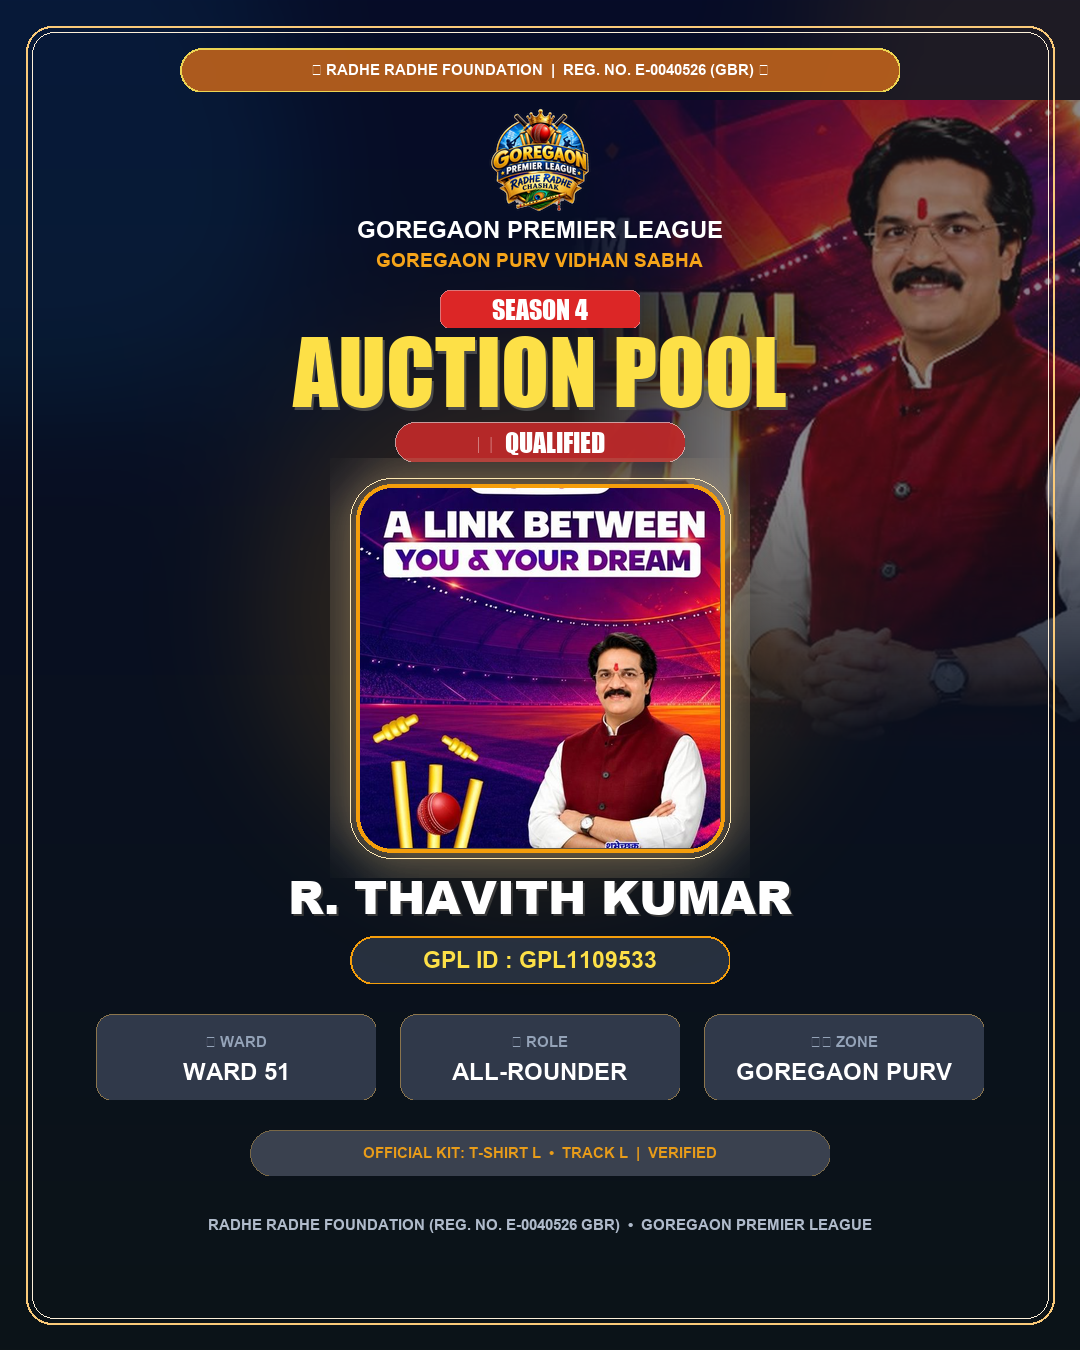
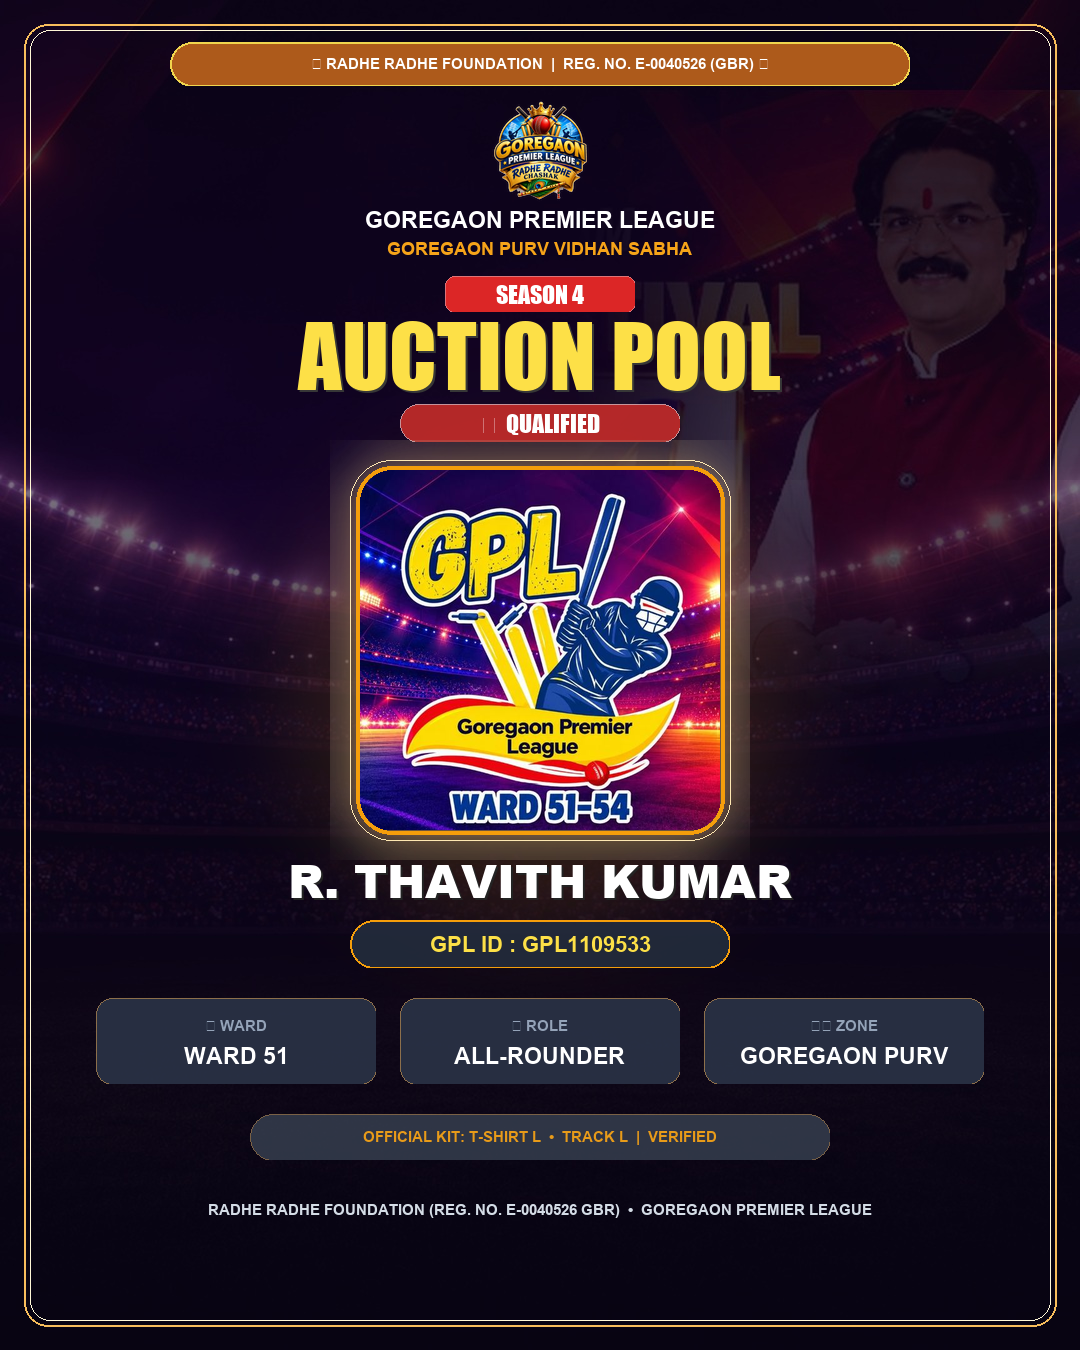
feat: use uploaded stadium background, prioritize env credentials for console login

diff --git a/src/lib/auth.js b/src/lib/auth.js
@@ -10,35 +10,47 @@ export const COOKIE_NAME = "gpl_admin_jwt";
 export async function authenticateAdmin(username, password) {
   if (!username || !password) return false;
 
-  let configuredUser = (process.env.ADMIN_USERNAME || "admin").trim().toLowerCase();
-  let configuredPass = process.env.ADMIN_PASSWORD || "GPL@AdminNew2026";
+  // 1. First priority: Environment variables (.env / .env.local / Vercel env)
+  const envUser = (process.env.ADMIN_USERNAME || process.env.CONSOLE_USERNAME || "").trim();
+  const envPass = (process.env.ADMIN_PASSWORD || process.env.CONSOLE_PASSWORD || "").trim();
 
-  // Check MongoDB for updated credentials if available
-  try {
-    const { connectToDatabase, MongoSetting } = await import("@/lib/mongodb");
-    await connectToDatabase();
-    const doc = await MongoSetting.findOne({ key: "global_settings" }).lean();
-    if (doc?.value?.adminUsername) {
-      configuredUser = String(doc.value.adminUsername).trim().toLowerCase();
+  let configuredUser = envUser.toLowerCase();
+  let configuredPass = envPass;
+
+  // 2. Fallback to MongoDB only if env variables are not set
+  if (!configuredUser || !configuredPass) {
+    try {
+      const { connectToDatabase, MongoSetting } = await import("@/lib/mongodb");
+      await connectToDatabase();
+      const doc = await MongoSetting.findOne({ key: "global_settings" }).lean();
+      if (!configuredUser && doc?.value?.adminUsername) {
+        configuredUser = String(doc.value.adminUsername).trim().toLowerCase();
+      }
+      if (!configuredPass && doc?.value?.adminPassword) {
+        configuredPass = String(doc.value.adminPassword).trim();
+      }
+    } catch (e) {
+      // fallback to defaults if DB is temporarily unreachable
     }
-    if (doc?.value?.adminPassword) {
-      configuredPass = String(doc.value.adminPassword);
-    }
-  } catch (e) {
-    // fallback to env vars / defaults if DB is temporarily unreachable
   }
+
+  // 3. Fallbacks
+  if (!configuredUser) configuredUser = "admin";
+  if (!configuredPass) configuredPass = "GPL@AdminNew2026";
 
   const userValid = username.trim().toLowerCase() === configuredUser;
   if (!userValid) return false;
 
-  // Check password
+  const inputPass = String(password).trim();
+  const targetPass = String(configuredPass).trim();
+
+  if (inputPass === targetPass) return true;
+
   try {
-    const a = Buffer.from(password);
-    const b = Buffer.from(configuredPass);
+    const a = Buffer.from(inputPass);
+    const b = Buffer.from(targetPass);
     if (a.length === b.length && crypto.timingSafeEqual(a, b)) return true;
-  } catch {
-    if (password === configuredPass) return true;
-  }
+  } catch {}
 
   return false;
 }

diff --git a/src/components/PlayerRegistrationCard.js b/src/components/PlayerRegistrationCard.js
@@ -81,20 +81,14 @@ export default function PlayerRegistrationCard({ player, regNum, photo, onClose 
       ctx.fillRect(W - 400, 0, 400, 400);
       ctx.restore();
 
-      // 3. BACKGROUND: Sandeep Jadhav portrait blended into upper-right
+      // 3. BACKGROUND: Stadium with Sandeep Jadhav
       try {
-        const bgSandeep = await loadImg("/images/card-bg-sandeep.png");
-        ctx.drawImage(bgSandeep, 0, 0, W, H);
+        const bgStadium = await loadImg("/images/card-stadium-bg-overlay.jpg");
+        ctx.drawImage(bgStadium, 0, 0, W, H);
       } catch (_) {
-        // Fallback: load directly from sandeep-jadhav.png with opacity
         try {
-          const sjImg = await loadImg("/images/sandeep-jadhav.png");
-          ctx.save();
-          ctx.globalAlpha = 0.45;
-          const sjW = 540;
-          const sjH = (sjW * sjImg.height) / sjImg.width;
-          ctx.drawImage(sjImg, W - sjW + 30, 100, sjW, sjH);
-          ctx.restore();
+          const bgSandeep = await loadImg("/images/card-bg-sandeep.png");
+          ctx.drawImage(bgSandeep, 0, 0, W, H);
         } catch (e) {}
       }
 

diff --git a/scripts/generate-template-card.py b/scripts/generate-template-card.py
@@ -5,122 +5,91 @@ from PIL import Image, ImageDraw, ImageFont, ImageFilter
 
 def generate_gpl_card(output_path, sample_photo_path=None):
     W, H = 1080, 1350
-    
-    # 1. Base Gradient Background (Midnight Sports Blue)
-    arr = np.zeros((H, W, 4), dtype=np.uint8)
-    t = np.linspace(0, 1, H)[:, None]
-    arr[:, :, 0] = (6 + t * 6).astype(np.uint8)
-    arr[:, :, 1] = (12 + t * 8).astype(np.uint8)
-    arr[:, :, 2] = (24 + (1 - t) * 16).astype(np.uint8)
-    arr[:, :, 3] = 255
-    img = Image.fromarray(arr)
 
-    # 2. Atmospheric ambient glows
+    # 1. Load the pre-baked stadium background (featuring the user's uploaded stadium & Sandeep Jadhav)
+    bg_path = "/Users/alok/Desktop/goregaon-premier-league/public/images/card-stadium-bg-overlay.jpg"
+    if os.path.exists(bg_path):
+        img = Image.open(bg_path).convert("RGBA")
+    else:
+        img = Image.new("RGBA", (W, H), (12, 6, 24, 255))
+
+    # Ambient golden light on center
     glow = Image.new("RGBA", (W, H), (0, 0, 0, 0))
     gdraw = ImageDraw.Draw(glow)
-    gdraw.ellipse([W - 350, -100, W + 300, 500], fill=(245, 158, 11, 26))
-    gdraw.ellipse([-200, -100, 350, 450], fill=(14, 165, 233, 22))
-    gdraw.ellipse([W//2 - 320, 300, W//2 + 320, 920], fill=(245, 158, 11, 35))
-    glow = glow.filter(ImageFilter.GaussianBlur(70))
+    gdraw.ellipse([W//2 - 280, 420, W//2 + 280, 960], fill=(245, 158, 11, 40))
+    glow = glow.filter(ImageFilter.GaussianBlur(60))
     img = Image.alpha_composite(img, glow)
-
-    # 3. BACKGROUND: Shri Sandeep Jadhav portrait blended into upper-right
-    sj_path = "/Users/alok/Desktop/goregaon-premier-league/public/images/sandeep-jadhav.png"
-    if os.path.exists(sj_path):
-        sj = Image.open(sj_path).convert("RGBA")
-        aspect = sj.height / sj.width
-        new_w = 540
-        new_h = int(new_w * aspect)
-        sj_scaled = sj.resize((new_w, new_h), Image.Resampling.LANCZOS)
-
-        # Smooth alpha mask
-        mask_arr = np.ones((new_h, new_w), dtype=np.float32)
-        # Fade bottom
-        fade_y = np.linspace(1, 0, int(new_h * 0.42), dtype=np.float32)
-        mask_arr[-len(fade_y):, :] *= fade_y[:, None]
-        # Fade left
-        fade_x = np.linspace(0, 1, int(new_w * 0.38), dtype=np.float32)
-        mask_arr[:, :len(fade_x)] *= fade_x[None, :]
-        # Opacity 48% for clear, prestigious visibility
-        mask_arr = (mask_arr * 0.48 * 255).astype(np.uint8)
-        mask_img = Image.fromarray(mask_arr)
-
-        paste_x = W - new_w + 30
-        paste_y = 100
-        img.paste(sj_scaled, (paste_x, paste_y), mask_img)
 
     draw = ImageDraw.Draw(img)
 
-    # 4. Crisp Outer Card Border
-    m = 26
-    draw.rounded_rectangle([m, m, W - m, H - m], radius=26, outline=(245, 158, 11, 140), width=2)
-    draw.rounded_rectangle([m + 6, m + 6, W - m - 6, H - m - 6], radius=22, outline=(245, 158, 11, 40), width=1)
+    # 2. Outer Card Border
+    m = 24
+    draw.rounded_rectangle([m, m, W - m, H - m], radius=24, outline=(245, 158, 11, 170), width=2)
+    draw.rounded_rectangle([m + 6, m + 6, W - m - 6, H - m - 6], radius=20, outline=(253, 224, 71, 55), width=1)
 
     # Fonts
     font_dir = "/System/Library/Fonts/Supplemental"
-    font_impact_lg = ImageFont.truetype(f"{font_dir}/Impact.ttf", 88)
+    font_impact_lg = ImageFont.truetype(f"{font_dir}/Impact.ttf", 86)
     font_impact_md = ImageFont.truetype(f"{font_dir}/Impact.ttf", 32)
-    font_impact_sm = ImageFont.truetype(f"{font_dir}/Impact.ttf", 26)
+    font_impact_sm = ImageFont.truetype(f"{font_dir}/Impact.ttf", 24)
     font_name = ImageFont.truetype(f"{font_dir}/Arial Black.ttf", 46)
-    font_bold_lg = ImageFont.truetype(f"{font_dir}/Arial Bold.ttf", 24)
-    font_bold_md = ImageFont.truetype(f"{font_dir}/Arial Bold.ttf", 19)
+    font_bold_lg = ImageFont.truetype(f"{font_dir}/Arial Bold.ttf", 23)
+    font_bold_md = ImageFont.truetype(f"{font_dir}/Arial Bold.ttf", 18)
     font_bold_sm = ImageFont.truetype(f"{font_dir}/Arial Bold.ttf", 15)
-    font_mono = ImageFont.truetype(f"{font_dir}/Arial Bold.ttf", 23)
+    font_mono = ImageFont.truetype(f"{font_dir}/Arial Bold.ttf", 22)
 
-    # 5. MOST PROMINENT: RADHE RADHE FOUNDATION (REG. NO. E-0040526 GBR) PRESENTS
-    rr_w, rr_h = 720, 44
+    # 3. TOP: RADHE RADHE FOUNDATION (REG. NO. E-0040526 GBR)
+    rr_w, rr_h = 740, 44
     rr_box = Image.new("RGBA", (rr_w, rr_h), (0, 0, 0, 0))
     r_draw = ImageDraw.Draw(rr_box)
-    r_draw.rounded_rectangle([0, 0, rr_w, rr_h], radius=22, fill=(180, 83, 9, 235), outline=(253, 224, 71, 235), width=2)
+    r_draw.rounded_rectangle([0, 0, rr_w, rr_h], radius=22, fill=(180, 83, 9, 235), outline=(253, 224, 71, 240), width=2)
     r_draw.text((rr_w // 2, rr_h // 2), "★ RADHE RADHE FOUNDATION  |  REG. NO. E-0040526 (GBR) ★", fill=(255, 255, 255, 255), font=font_bold_sm, anchor="mm")
-    img.paste(rr_box, (W // 2 - rr_w // 2, 48), rr_box)
+    img.paste(rr_box, (W // 2 - rr_w // 2, 42), rr_box)
 
-    # 6. Logo & Top Header (with "GOREGAON PURV VIDHAN SABHA")
+    # 4. Logo + GOREGAON PREMIER LEAGUE + GOREGAON PURV VIDHAN SABHA
     logo_path = "/Users/alok/Desktop/goregaon-premier-league/public/images/gpl-logo.png"
     if os.path.exists(logo_path):
         try:
             logo = Image.open(logo_path).convert("RGBA")
-            logo.thumbnail((110, 110), Image.Resampling.LANCZOS)
-            img.paste(logo, (W // 2 - logo.width // 2, 105), logo)
+            logo.thumbnail((105, 105), Image.Resampling.LANCZOS)
+            img.paste(logo, (W // 2 - logo.width // 2, 98), logo)
         except Exception as e:
             print("Logo load error:", e)
 
-    # Title: GOREGAON PREMIER LEAGUE
-    draw.text((W // 2, 230), "GOREGAON PREMIER LEAGUE", fill=(255, 255, 255, 255), font=font_bold_lg, anchor="mm")
-    # Subtitle: GOREGAON PURV VIDHAN SABHA (replaced ward 51 & 54)
-    draw.text((W // 2, 260), "GOREGAON PURV VIDHAN SABHA", fill=(245, 158, 11, 240), font=font_bold_md, anchor="mm")
+    draw.text((W // 2, 220), "GOREGAON PREMIER LEAGUE", fill=(255, 255, 255, 255), font=font_bold_lg, anchor="mm")
+    draw.text((W // 2, 248), "GOREGAON PURV VIDHAN SABHA", fill=(245, 158, 11, 240), font=font_bold_md, anchor="mm")
 
-    # 7. Red "SEASON 4" Stamp + "AUCTION POOL" + "✔ QUALIFIED"
-    s4_w, s4_h = 200, 38
+    # 5. Red "SEASON 4" Stamp
+    s4_w, s4_h = 190, 36
     s4_box = Image.new("RGBA", (s4_w, s4_h), (0, 0, 0, 0))
     s4_draw = ImageDraw.Draw(s4_box)
     s4_draw.rounded_rectangle([0, 0, s4_w, s4_h], radius=10, fill=(220, 38, 38, 255), outline=(248, 113, 113, 220), width=1)
     s4_draw.text((s4_w // 2, s4_h // 2), "SEASON 4", fill=(255, 255, 255, 255), font=font_impact_sm, anchor="mm")
-    img.paste(s4_box, (W // 2 - s4_w // 2, 290), s4_box)
+    img.paste(s4_box, (W // 2 - s4_w // 2, 276), s4_box)
 
-    # AUCTION POOL Title
-    ap_y = 372
-    draw.text((W // 2 + 2, ap_y + 3), "AUCTION POOL", fill=(0, 0, 0, 180), font=font_impact_lg, anchor="mm")
+    # 6. AUCTION POOL Title
+    ap_y = 356
+    draw.text((W // 2 + 2, ap_y + 2), "AUCTION POOL", fill=(0, 0, 0, 200), font=font_impact_lg, anchor="mm")
     draw.text((W // 2, ap_y), "AUCTION POOL", fill=(253, 224, 71, 255), font=font_impact_lg, anchor="mm")
 
-    # ✔ QUALIFIED Ribbon
-    q_w, q_h = 290, 40
+    # 7. Red "✔ QUALIFIED" Ribbon
+    q_w, q_h = 280, 38
     q_box = Image.new("RGBA", (q_w, q_h), (0, 0, 0, 0))
     q_draw = ImageDraw.Draw(q_box)
-    q_draw.rounded_rectangle([0, 0, q_w, q_h], radius=20, fill=(185, 28, 28, 240), outline=(252, 165, 165, 180), width=1)
+    q_draw.rounded_rectangle([0, 0, q_w, q_h], radius=19, fill=(185, 28, 28, 240), outline=(252, 165, 165, 180), width=1)
     q_draw.text((q_w // 2, q_h // 2), "✔  QUALIFIED", fill=(255, 255, 255, 255), font=font_impact_sm, anchor="mm")
-    img.paste(q_box, (W // 2 - q_w // 2, 422), q_box)
+    img.paste(q_box, (W // 2 - q_w // 2, 404), q_box)
 
     # 8. Hero Player Portrait
     p_size = 360
     p_x = W // 2 - p_size // 2
-    p_y = 488
+    p_y = 470
     p_rad = 32
 
     # Glow behind photo
     glow_p = Image.new("RGBA", (p_size + 60, p_size + 60), (0, 0, 0, 0))
     gp_draw = ImageDraw.Draw(glow_p)
-    gp_draw.rounded_rectangle([15, 15, p_size + 45, p_size + 45], radius=44, fill=(245, 158, 11, 75))
+    gp_draw.rounded_rectangle([15, 15, p_size + 45, p_size + 45], radius=44, fill=(245, 158, 11, 80))
     glow_p = glow_p.filter(ImageFilter.GaussianBlur(22))
     img.paste(glow_p, (p_x - 30, p_y - 30), glow_p)
 
@@ -151,18 +120,18 @@ def generate_gpl_card(output_path, sample_photo_path=None):
     draw.rounded_rectangle([p_x - 4, p_y - 4, p_x + p_size + 4, p_y + p_size + 4], radius=p_rad + 4, outline=(245, 158, 11, 255), width=4)
     draw.rounded_rectangle([p_x - 10, p_y - 10, p_x + p_size + 10, p_y + p_size + 10], radius=p_rad + 10, outline=(251, 191, 36, 90), width=1)
 
-    # 9. Player Name
+    # 9. Player Full Name
     name_str = "R. THAVITH KUMAR"
-    draw.text((W // 2 + 2, 898), name_str, fill=(0, 0, 0, 200), font=font_name, anchor="mm")
-    draw.text((W // 2, 896), name_str, fill=(255, 255, 255, 255), font=font_name, anchor="mm")
+    draw.text((W // 2 + 2, 882), name_str, fill=(0, 0, 0, 220), font=font_name, anchor="mm")
+    draw.text((W // 2, 880), name_str, fill=(255, 255, 255, 255), font=font_name, anchor="mm")
 
-    # 10. Clean ID Pill: GPL ID : GPL1109533
+    # 10. Clean ID Chip: GPL ID : GPL1109533
     id_w, id_h = 380, 48
     id_box = Image.new("RGBA", (id_w, id_h), (0, 0, 0, 0))
     id_draw = ImageDraw.Draw(id_box)
-    id_draw.rounded_rectangle([0, 0, id_w, id_h], radius=24, fill=(10, 20, 38, 220), outline=(245, 158, 11, 255), width=2)
+    id_draw.rounded_rectangle([0, 0, id_w, id_h], radius=24, fill=(10, 20, 38, 230), outline=(245, 158, 11, 255), width=2)
     id_draw.text((id_w // 2, id_h // 2), "GPL ID : GPL1109533", fill=(253, 224, 71, 255), font=font_mono, anchor="mm")
-    img.paste(id_box, (W // 2 - id_w // 2, 936), id_box)
+    img.paste(id_box, (W // 2 - id_w // 2, 920), id_box)
 
     # 11. 3 Clean Minimalist Badges (Ward, Role, Zone)
     badges = [
@@ -175,13 +144,13 @@ def generate_gpl_card(output_path, sample_photo_path=None):
     b_gap = 24
     total_bw = 3 * b_w + 2 * b_gap
     start_bx = (W - total_bw) // 2
-    b_y = 1014
+    b_y = 998
 
     for i, (label, val) in enumerate(badges):
         bx = start_bx + i * (b_w + b_gap)
         bbox = Image.new("RGBA", (b_w, b_h), (0, 0, 0, 0))
         bdraw = ImageDraw.Draw(bbox)
-        bdraw.rounded_rectangle([0, 0, b_w, b_h], radius=16, fill=(14, 24, 46, 210), outline=(245, 158, 11, 100), width=1)
+        bdraw.rounded_rectangle([0, 0, b_w, b_h], radius=16, fill=(14, 24, 46, 225), outline=(245, 158, 11, 100), width=1)
         bdraw.text((b_w // 2, 28), label, fill=(148, 163, 184, 255), font=font_bold_sm, anchor="mm")
         bdraw.text((b_w // 2, 58), val, fill=(255, 255, 255, 255), font=font_bold_lg, anchor="mm")
         img.paste(bbox, (bx, b_y), bbox)
@@ -190,20 +159,20 @@ def generate_gpl_card(output_path, sample_photo_path=None):
     kit_w, kit_h = 580, 46
     kit_box = Image.new("RGBA", (kit_w, kit_h), (0, 0, 0, 0))
     kdraw = ImageDraw.Draw(kit_box)
-    kdraw.rounded_rectangle([0, 0, kit_w, kit_h], radius=23, fill=(12, 22, 42, 190), outline=(245, 158, 11, 80), width=1)
+    kdraw.rounded_rectangle([0, 0, kit_w, kit_h], radius=23, fill=(12, 22, 42, 210), outline=(245, 158, 11, 80), width=1)
     kdraw.text((kit_w // 2, kit_h // 2), "OFFICIAL KIT: T-SHIRT L  •  TRACK L  |  VERIFIED", fill=(245, 158, 11, 240), font=font_bold_sm, anchor="mm")
-    img.paste(kit_box, (W // 2 - kit_w // 2, 1130), kit_box)
+    img.paste(kit_box, (W // 2 - kit_w // 2, 1114), kit_box)
 
-    # 13. Minimalist Baseline (NO footer box)
-    draw.text((W // 2, 1225), "RADHE RADHE FOUNDATION (REG. NO. E-0040526 GBR)  •  GOREGAON PREMIER LEAGUE", fill=(148, 163, 184, 190), font=font_bold_sm, anchor="mm")
+    # 13. Minimalist Baseline
+    draw.text((W // 2, 1210), "RADHE RADHE FOUNDATION (REG. NO. E-0040526 GBR)  •  GOREGAON PREMIER LEAGUE", fill=(203, 213, 225, 210), font=font_bold_sm, anchor="mm")
 
     # Save
     os.makedirs(os.path.dirname(output_path), exist_ok=True)
     img.save(output_path, "PNG", quality=95)
-    print(f"Generated clean card at {output_path}")
+    print(f"Generated card at {output_path}")
 
 if __name__ == "__main__":
-    sample = "/Users/alok/Desktop/goregaon-premier-league/public/images/gpl-card-2.jpg"
+    sample = "/Users/alok/Desktop/goregaon-premier-league/public/images/gpl-card-1.jpg"
     out1 = "/Users/alok/Desktop/goregaon-premier-league/template-player-card.png"
     out2 = "/Users/alok/Desktop/goregaon-premier-league/public/images/template-player-card.png"
     generate_gpl_card(out1, sample)
